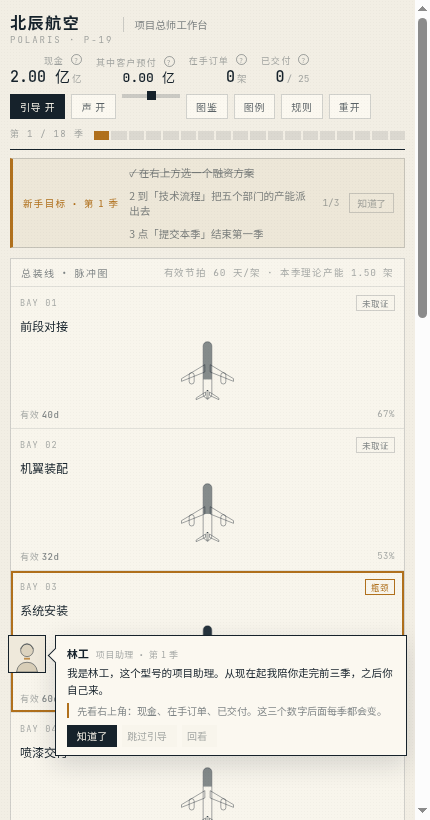
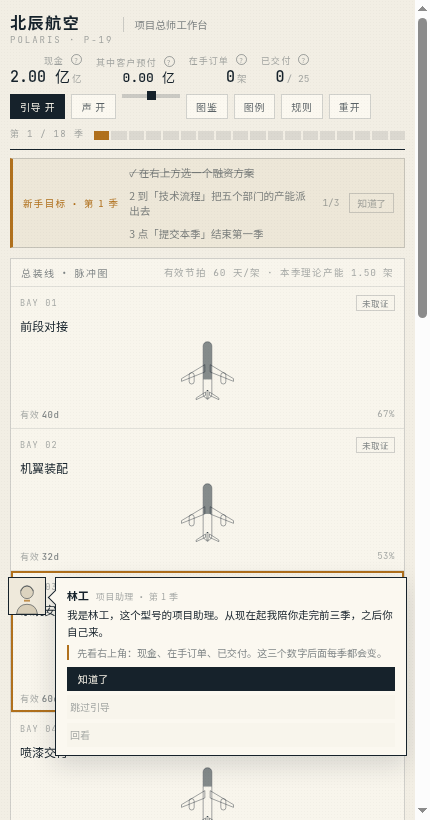
fix(aircraft-manufacturer): 经济正确性 + 前三季教学层级
P0-A 经济
- 季报 cashStart 改为提交瞬间快照（此前记录的是结算后现金）
- 发动机下单时记录单价快照与应付金额，结算按快照扣款；
  在途订单记录 unit，涨价事件不再追溯已锁订单
- 新增断言：cashStart/cashEnd 恒等式、单价快照、改型路线工作量、
  doneNow 完成记录

P0-B 教学层级
- 「本季指挥」升级为唯一主指挥条
- 建议拆成「本季必做」1 条 + 「可以考虑」至多 2 条
- 新增「结算预览」：预计交付、收款、支出与期末现金
- 新手目标改为可点击，直接跳到对应页签
- 订单卡新增可行性摘要：最早交付季、发动机覆盖、窗口内可造架数、
  安全/紧张/不可行

P1-C 图片
- 保持照片优先 / 线稿回退契约，未提交任何占位图片，缺失清单如实保留

构建哈希见 qa/evidence/run.json

Changed region(s): [[0.0, 0.7012, 0.9372, 0.9146], [0.8465, 0.7012, 0.9674, 0.7927]]

diff --git a/games/aircraft-manufacturer/ui.js b/games/aircraft-manufacturer/ui.js
@@ -553,7 +553,7 @@
     const hint = nextHint();
     $('.acts').innerHTML = `
       <header><span class="t">本季决议</span><span class="m mono">第 ${S.turn} 季 · 只能提交一次</span></header>
-      ${hint ? `<div class="hintbar"><b>下一步</b>${esc(hint)}</div>` : ''}
+      ${hint ? `<div class="hintbar lead"><b>本季指挥</b>${esc(hint)}</div>` : ''}
       ${guided ? guideBlock() : ''}
       <div class="tabs">${tabs.map((t) => `<button data-tab="${t.k}" class="${tab === t.k ? 'on' : ''}">${t.n}${dot(t.k)}</button>`).join('')}</div>
       <div class="tabbody">${tabBody()}</div>`;
@@ -561,10 +561,14 @@
   function guideBlock() {
     const list = E.suggest(S);
     if (!list.length) return '';
+    const must = list[0];
+    const later = list.slice(1, 3);
     return `<div class="guide">
-      <div class="gh"><span>本季建议</span><em>可一键执行，执行后仍能改</em></div>
-      ${list.map((g, i) => `<div class="gitem"><span class="gnum">${i + 1}</span><span class="gtext"><b>${esc(g.label)}</b><em>${esc(g.detail)}</em></span></div>`).join('')}
-      <button class="btn sm" data-run="all">一键执行这 ${list.length} 条</button>
+      <div class="gh"><span>本季必做</span><em>先做这一条</em></div>
+      <div class="gitem must"><span class="gnum">1</span><span class="gtext"><b>${esc(must.label)}</b><em>${esc(must.detail)}</em></span></div>
+      <button class="btn sm" data-run="must">执行这条</button>
+      ${later.length ? `<div class="gh sub"><span>可以考虑</span><em>不做也能过</em></div>` +
+        later.map((g, i) => `<div class="gitem sub"><span class="gnum">·</span><span class="gtext"><b>${esc(g.label)}</b><em>${esc(g.detail)}</em></span></div>`).join('') : ''}
     </div>`;
   }
 
@@ -648,6 +652,7 @@
           <div class="oh"><span class="who">${esc(o.cust)}<em>${esc(o.tag)}</em></span><span class="qty">${o.qty} 架</span></div>
           <div class="meta mono">窗口 T${o.win[0]}–T${o.win[1]} · 折扣 ${Math.round(o.disc * 100)}%${S.discShift ? ' → 实付 ' + Math.round(Math.min(0.3, o.disc + S.discShift) * 100) + '%' : ''} · 定金 5%</div>
           <div class="note">${esc(o.note)}</div>
+          ${offerFeasibility(o)}
           <div class="acts2">
             <button class="btn" data-offer="${o.id}" data-accept="1">接受</button>
             <button class="btn ghost" data-offer="${o.id}" data-accept="0">拒绝</button>
@@ -683,6 +688,22 @@
     return `
       <div class="note">航司不是抽象买家：它们有机队规模、有关系、有运行反馈。关系越好，下一单的议价空间越大；可靠性低于 55 会掉信誉。</div>
       ${rows}`;
+  }
+
+  function offerFeasibility(o) {
+    const first = S.pc ? Math.max(S.turn, o.win[0]) : null;
+    const engCover = Math.floor(S.engines / 2) + S.engineOrders.reduce((a, x) => a + x.qty, 0) / 2;
+    const cap = E.capacity(S) || 1;
+    const quarters = Math.max(0, o.win[1] - (first || S.turn) + 1);
+    const canBuild = Math.round(quarters * cap);
+    let verdict = 'safe', label = '安全';
+    if (!S.pc && o.win[1] <= 14) { verdict = 'bad'; label = '不可行'; }
+    else if (engCover < o.qty * 0.5 || canBuild < o.qty * 0.6) { verdict = 'tight'; label = '紧张'; }
+    return '<div class="ofeas ' + verdict + '">' +
+      '<span>最早交付 <b class="mono">' + (first ? 'T' + first : '待 PC') + '</b></span>' +
+      '<span>发动机覆盖 <b class="mono">' + Math.floor(engCover) + ' 架</b></span>' +
+      '<span>窗口内可造 <b class="mono">' + canBuild + ' 架</b></span>' +
+      '<em>' + label + '</em></div>';
   }
 
   function techBody() {
@@ -890,7 +911,9 @@
     const done = goals.filter((g) => g.on).length;
     host.innerHTML = `
       <span class="tt">新手目标 · 第 ${S.turn} 季</span>
-      <span class="tg">${goals.map((g, i) => `<span class="ti ${g.on ? 'on' : ''}">${g.on ? '✓' : i + 1} ${esc(g.t)}</span>`).join('')}</span>
+      <span class="tg">${goals.map((g, i) => g.go
+        ? `<button class="ti ${g.on ? 'on' : ''}" data-go="${g.go}">${g.on ? '✓' : i + 1} ${esc(g.t)}</button>`
+        : `<span class="ti ${g.on ? 'on' : ''}">${g.on ? '✓' : i + 1} ${esc(g.t)}</span>`).join('')}</span>
       <span class="tp mono">${done}/${goals.length}</span>
       <button class="tx" data-tut="off" title="关闭新手引导">知道了</button>`;
   }
@@ -1257,6 +1280,31 @@
     if (t.dataset.route) { RS.route = t.dataset.route; return showRocket(); }
     if (t.dataset.toggle === 'guide') { guided = !guided; S.tutOn = guided; render(); return; }
     if (t.dataset.tut === 'off') { S.tutOn = false; render(); return; }
+    if (t.dataset.go) { tab = t.dataset.go; sfx('tab'); render(); return; }
+    if (t.dataset.preview) {
+      const est = estimate();
+      const rd = S.rdRate || 0.6;
+      const interest = (S.flags.govPaid || S.flags.bankPaid) ? (S.finance === 'gov' ? 0.06 : 0.036) : 0;
+      const out = rd + interest + (S.pending.enginesCost || 0) +
+        (S.pending.expand ? 2.4 : 0) + (S.pending.visits.length * 0.4) +
+        (S.pending.overtime ? 0.12 : 0) +
+        Object.keys(S.pending.hires).reduce((a, k) => a + S.pending.hires[k] * 0.8, 0);
+      const price = 4.2 * 0.85;
+      openModal('<header><span class="t">本季结算预览</span><span class="m">仅估算，以提交为准</span></header>' +
+        '<div class="body"><div class="replist">' +
+        '<div><span>预计交付</span><span class="mono">' + est + ' 架</span></div>' +
+        '<div><span>预计收款（交付 50%+尾款）</span><span class="mono pos">+' + (est * price * 0.5).toFixed(2) + ' 亿</span></div>' +
+        '<div><span>预计支出（研发/利息/采购/扩线/招聘）</span><span class="mono neg">−' + out.toFixed(2) + ' 亿</span></div>' +
+        '<div><span>期末现金（估算）</span><span class="mono">' + (S.cash + est * price * 0.5 - out).toFixed(2) + ' 亿</span></div>' +
+        '</div><p style="font-size:9.5px;color:var(--ink-40);margin-top:6px">不含本季新签单定金与事件影响。</p></div>' +
+        '<footer><button class="btn" data-close>关闭</button></footer>');
+      return;
+    }
+    if (t.dataset.run === 'must') {
+      const g = E.suggest(S)[0];
+      if (g) { try { g.run(S); } catch (e) { /* ignore */ } }
+      render(); toast('已执行必做项，其余可以自己调。'); return;
+    }
     if (t.dataset.run === 'all') {
       let n = 0;
       E.suggest(S).forEach((g) => { try { if (g.run(S)) n += 1; } catch (e) { /* 忽略 */ } });

diff --git a/games/aircraft-manufacturer/engine.js b/games/aircraft-manufacturer/engine.js
@@ -269,7 +269,7 @@
       progress: 0,
       engines: 0,
       engineOrders: [],
-      pending: { overtime: false, expand: false, hires: {}, engines: 0, assign: {}, accept: [], decline: [], release: 0, extra: false, story: null, visits: [] },
+      pending: { overtime: false, expand: false, hires: {}, engines: 0, assign: {}, accept: [], decline: [], release: 0, extra: false, story: null, visits: [], enginesCost: 0, engineUnit: 0.35 },
       lastReport: null,
       flags: {}
     };
@@ -415,10 +415,13 @@
     return { ok: true };
   }
   function buyEngines(s, qty) {
-    const cost = qty * (s.enginePrice || 0.35) * 0.30;
+    const unit = s.enginePrice || 0.35;          // 下单瞬间的单价
+    const cost = qty * unit * 0.30;
     if (s.cash < cost) return { ok: false, reason: '现金不足 ' + cost.toFixed(2) + ' 亿' };
     s.pending.engines += qty;
-    return { ok: true, cost: cost };
+    s.pending.enginesCost = (s.pending.enginesCost || 0) + cost;   // 价格快照
+    s.pending.engineUnit = unit;
+    return { ok: true, cost: cost, unit: unit };
   }
   function decideOffer(s, id, accept) {
     const o = s.offers.filter(function (x) { return x.id === id; })[0];
@@ -715,7 +718,8 @@
 
   /* ---------- 结算 ---------- */
   function commit(s) {
-    const r = { turn: s.turn, lines: [], notes: [], events: [], penalties: [], attribution: null };
+    const cashStart = s.cash;
+    const r = { turn: s.turn, cashStart: cashStart, lines: [], notes: [], events: [], penalties: [], attribution: null };
     const p = s.pending;
     const t = s.turn;
 
@@ -768,9 +772,9 @@
     }
 
     if (p.engines > 0) {
-      const c = p.engines * 0.35 * 0.30;
+      const c = p.enginesCost != null ? p.enginesCost : p.engines * (s.enginePrice || 0.35) * 0.30;
       s.cash -= c;
-      s.engineOrders.push({ arrive: t + 3, qty: p.engines });
+      s.engineOrders.push({ arrive: t + 3, qty: p.engines, unit: p.engineUnit || s.enginePrice || 0.35 });
       r.lines.push({ k: '锁定发动机 ' + p.engines + ' 台（30% 预付）', v: -c });
       r.notes.push(p.engines + ' 台发动机将在第 ' + (t + 3) + ' 季到货。');
     }
@@ -1003,7 +1007,6 @@
       }
     });
 
-    r.cashStart = r.cashStart === undefined ? s.cash : r.cashStart;
     r.cashEnd = s.cash;
     r.deliveredTotal = s.delivered;
     r.capacity = cap;
@@ -1015,7 +1018,7 @@
     s.log.push(r);
 
     s.turn = t + 1;
-    s.pending = { overtime: false, expand: false, hires: {}, engines: 0, assign: {}, accept: [], decline: [], release: 0, extra: false, story: null, visits: [] };
+    s.pending = { overtime: false, expand: false, hires: {}, engines: 0, assign: {}, accept: [], decline: [], release: 0, extra: false, story: null, visits: [], enginesCost: 0, engineUnit: 0.35 };
     s.offers.forEach(function (o) { if (o.turn === s.turn) o.open = true; });
     s.offers.forEach(function (o) { if (o.open && !o.decided && s.turn - o.turn > 3) o.decided = 'expired'; });
     if (s.turn <= CONFIG.maxTurn) applyTurnStart(s);

diff --git a/games/aircraft-manufacturer/game.css b/games/aircraft-manufacturer/game.css
@@ -447,3 +447,24 @@ button{font-family:inherit;color:inherit;background:none;border:0;cursor:pointer
   .avatar{width:38px;height:38px;flex:0 0 38px}
   .atext{font-size:10.5px}
 }
+
+/* 主指挥条 */
+.hintbar.lead{border-left:3px solid var(--ink);background:rgba(22,34,43,.06);color:var(--ink);font-size:11px}
+.hintbar.lead b{letter-spacing:.14em;margin-right:8px;color:var(--ink-40);font-weight:400}
+/* 必做/考虑 */
+.guide .gh.sub{margin-top:6px;color:var(--ink-40)}
+.gitem.must .gtext b{color:var(--ink)}
+.gitem.sub{opacity:.85}
+.gitem.sub .gtext b{font-weight:400}
+/* 新手目标可点 */
+button.ti{font:inherit;font-size:10.5px;color:var(--ink-55);background:none;border:0;padding:0;cursor:pointer;text-align:left}
+button.ti:hover{color:var(--ink);text-decoration:underline}
+/* 订单可行性 */
+.ofeas{display:flex;flex-wrap:wrap;gap:5px 12px;align-items:center;margin-top:6px;font-size:9.5px;color:var(--ink-55);
+  border-top:1px dotted var(--ink-20);padding-top:5px}
+.ofeas b{font-family:var(--mono);color:var(--ink);font-weight:500}
+.ofeas em{font-style:normal;margin-left:auto;padding:1px 6px;border:1px solid;font-size:9px;letter-spacing:.06em}
+.ofeas.safe em{border-color:var(--teal);color:var(--teal)}
+.ofeas.tight em{border-color:var(--amber);color:var(--amber)}
+.ofeas.bad em{border-color:var(--red);color:var(--red)}
+.preview{border-color:var(--ink-20);color:var(--ink-55)}

diff --git a/games/aircraft-manufacturer/index.html b/games/aircraft-manufacturer/index.html
@@ -4,7 +4,7 @@
 <meta charset="utf-8">
 <meta name="viewport" content="width=device-width, initial-scale=1">
 <title>适航 · 北辰航空 P-19 项目</title>
-<link rel="stylesheet" href="game.css?v=10">
+<link rel="stylesheet" href="game.css?v=11">
 </head>
 <body>
 <svg width="0" height="0" style="position:absolute" aria-hidden="true">
@@ -53,8 +53,8 @@
 <div class="assisthost"></div>
 <div class="toastwrap"></div>
 
-<script src="engine.js?v=10"></script>
-<script src="codex.js?v=10"></script>
-<script src="ui.js?v=10"></script>
+<script src="engine.js?v=11"></script>
+<script src="codex.js?v=11"></script>
+<script src="ui.js?v=11"></script>
 </body>
 </html>
